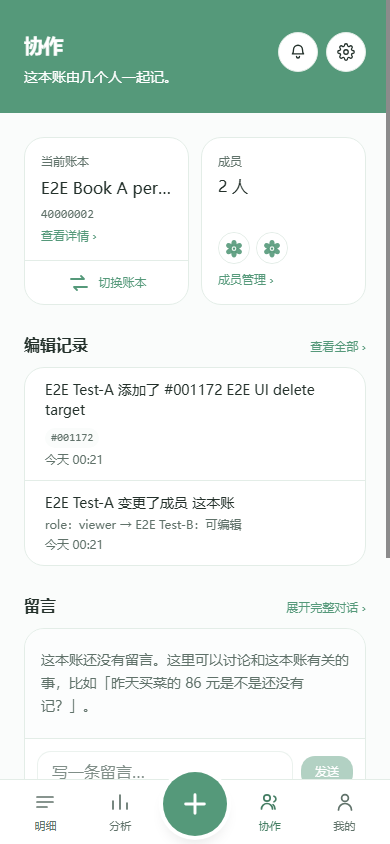
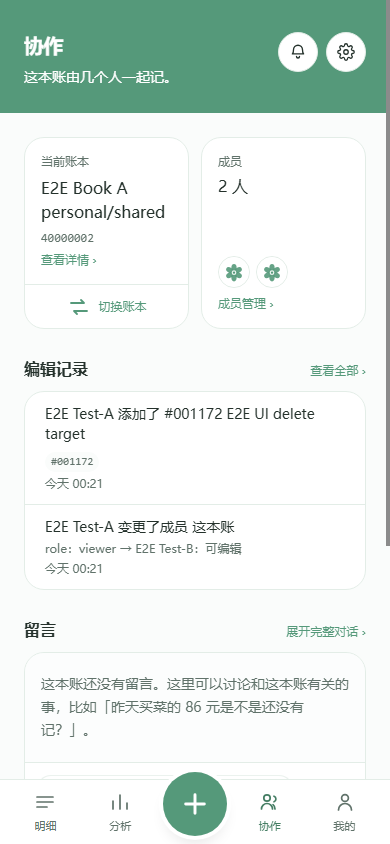
fix(web): 当前账本名称换行展示，避免响应式布局截断
- 单人/协作卡片内书名不再 truncate；长名称换行，共享卡与成员卡等高伸展
- 真实浏览器 390/320 长书名验证无横向溢出；更新截图与验收记录
- 440 web tests / typecheck / build / docs 全过；未部署

diff --git a/apps/web/src/pages/LedgerPage.tsx b/apps/web/src/pages/LedgerPage.tsx
@@ -134,8 +134,9 @@ export function LedgerPage(): React.JSX.Element {
             *
             * ⚠ **The two cards must stay the same height.** His instruction: *"两张卡片应保持一致的高度
             * 与布局节奏。较长的账本名称、较多的成员数量和窄屏幕不应导致文字溢出或布局错乱."* The grid
-            * gives them the same row; `h-full` and `min-h-0` with `truncate`/`line-clamp` keep a long
-            * name or a crowd from changing that.
+            * gives them the same row; `h-full` and `min-h-0` keep that. The book name **wraps**
+            * (rather than being ellipsed) so a long name grows the shared row instead of losing text;
+            * the member card stretches with it, and the switch stays a compact bar.
             */}
           {shared ? (
             <section className="grid grid-cols-2 items-stretch gap-3 px-6 pt-6">
@@ -437,7 +438,7 @@ function BookCardSplit({
           className="flex min-h-20 min-w-0 flex-1 flex-col justify-between gap-1.5 p-4 text-left transition hover:bg-canvas focus-visible:outline-none focus-visible:ring-4 focus-visible:ring-brand-soft"
         >
           <span className="text-helper text-muted">当前账本</span>
-          <span className="truncate text-base font-medium text-ink">{name}</span>
+          <span className="break-words text-base font-medium text-ink">{name}</span>
           <span className="truncate font-mono text-helper text-muted">
             {bookNumber ?? "（未分配编号）"}
           </span>

diff --git a/docs/开发过程记录/S13-E-当前账本卡片响应式微调记录.md b/docs/开发过程记录/S13-E-当前账本卡片响应式微调记录.md
@@ -52,17 +52,19 @@ flex flex-col sm:flex-row
 | 单人 320 | 272×124 | row | 104×122 | 36px |
 | 单人 300 | 252×168 | column | 250×44 | 24px |
 | 单人 430 / 507 / 834 / 1440 | 382–400×124 | row | 104×122 | 36px |
-| 协作 390 | 165×168 | column | 163×44 | 24px |
-| 协作 320 | 130×168 | column | 128×44 | 24px |
-| 协作 507 / 834 / 1440 | 194×168 | column | 192×44 | 24px |
+| 协作 390 | 165×192 | column | 163×44 | 24px |
+| 协作 320 | 130×216 | column | 128×44 | 24px |
+| 协作 300 | 120×240 | column | 118×44 | 24px |
+| 协作 507 / 834 / 1440 | 194×192 | column | 192×44 | 24px |
 
 所有测试宽度下：
 
 - 文档、卡片、body、切换区均无横向溢出；
 - 切换区与详情区高度均 ≥44px；
-- 协作卡片与成员卡片高度一致（168/168）；
-- 切换栏占卡片高度约 **26%**，不再接近一半；
+- 协作卡片与成员卡片高度一致（例如 390：192/192；320：216/216）；
+- 切换栏占卡片高度约 **23%（390）/20%（320）**，不再接近一半；
 - 图标/文字位置：宽卡文字在图标下，窄卡文字在图标右；
+- 书名著称改为**换行展示、不再省略**；极长名称会让共享行变高，但不会截断或被裁切；
 - 行为：切换链接 → `/start`，详情链接 → `/books/<id>`，均实际点击验证通过。
 
 ## 4. 截图
@@ -74,7 +76,8 @@ flex flex-col sm:flex-row
 - [协作 1440](截图/2026-10-18-当前账本卡片/current-book-shared-1440.png)
 
 **目视结论**：单人卡片从约 176px 降到 124px，切换图标 36px 仍是右侧视觉主体；协作卡片
-切换栏 44px、紧凑自然；浅绿色背景、圆角、分隔线保留。
+切换栏 44px、紧凑自然；浅绿色背景、圆角、分隔线保留。长书名会换行并让两卡等高伸展，
+不再出现省略号；这是“保留完整文字”和紧凑高度之间的取舍，正常短名称仍保持 192px 以内。
 
 ## 5. 验证与边界
 
@@ -84,8 +87,8 @@ flex flex-col sm:flex-row
 - 真实浏览器：Edge headless（CDP），390/375/320/300/430/507/834/1440，单人 + 协作；
 - 未改数据库、备份、管理员、离线逻辑；
 - **未部署生产、未改 `libevra.com`**；生产仍 1.13.07；
-- 长书名的既有 `truncate` 策略未改（为维持两卡等高），切换文字本身不截断；如所有者希望长书名换行，
-  需要另行决定是否接受卡片高度变化。
+- 长书名著称改为换行展示（不再 `truncate`），共享卡/成员卡会一起变高，避免文字截断；
+  如果所有者更希望严格保持 168px 高度，需要再决定是否改为两行截断。
 
 ## 6. 当前 Git
 
